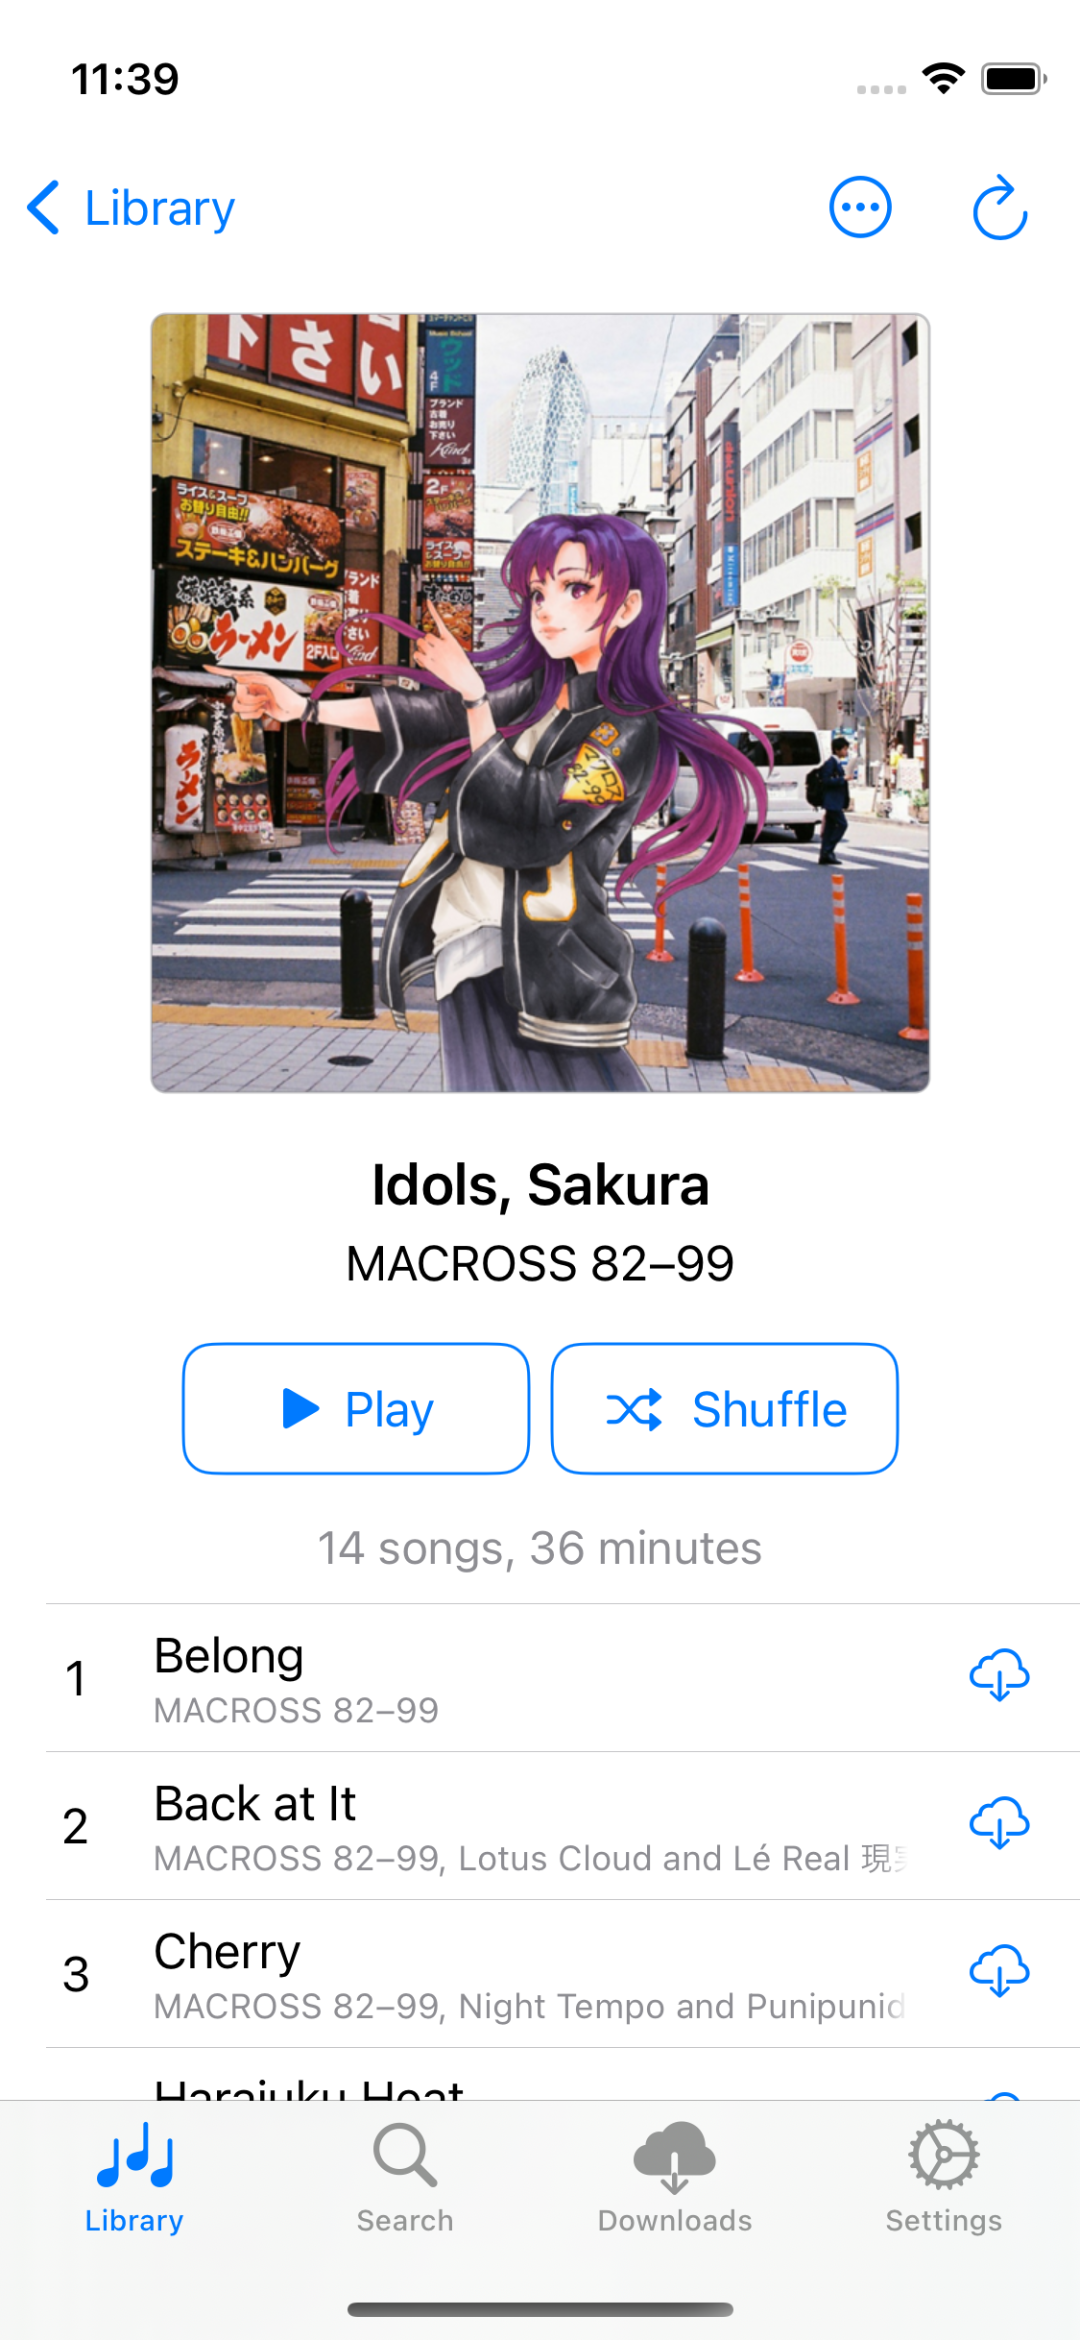
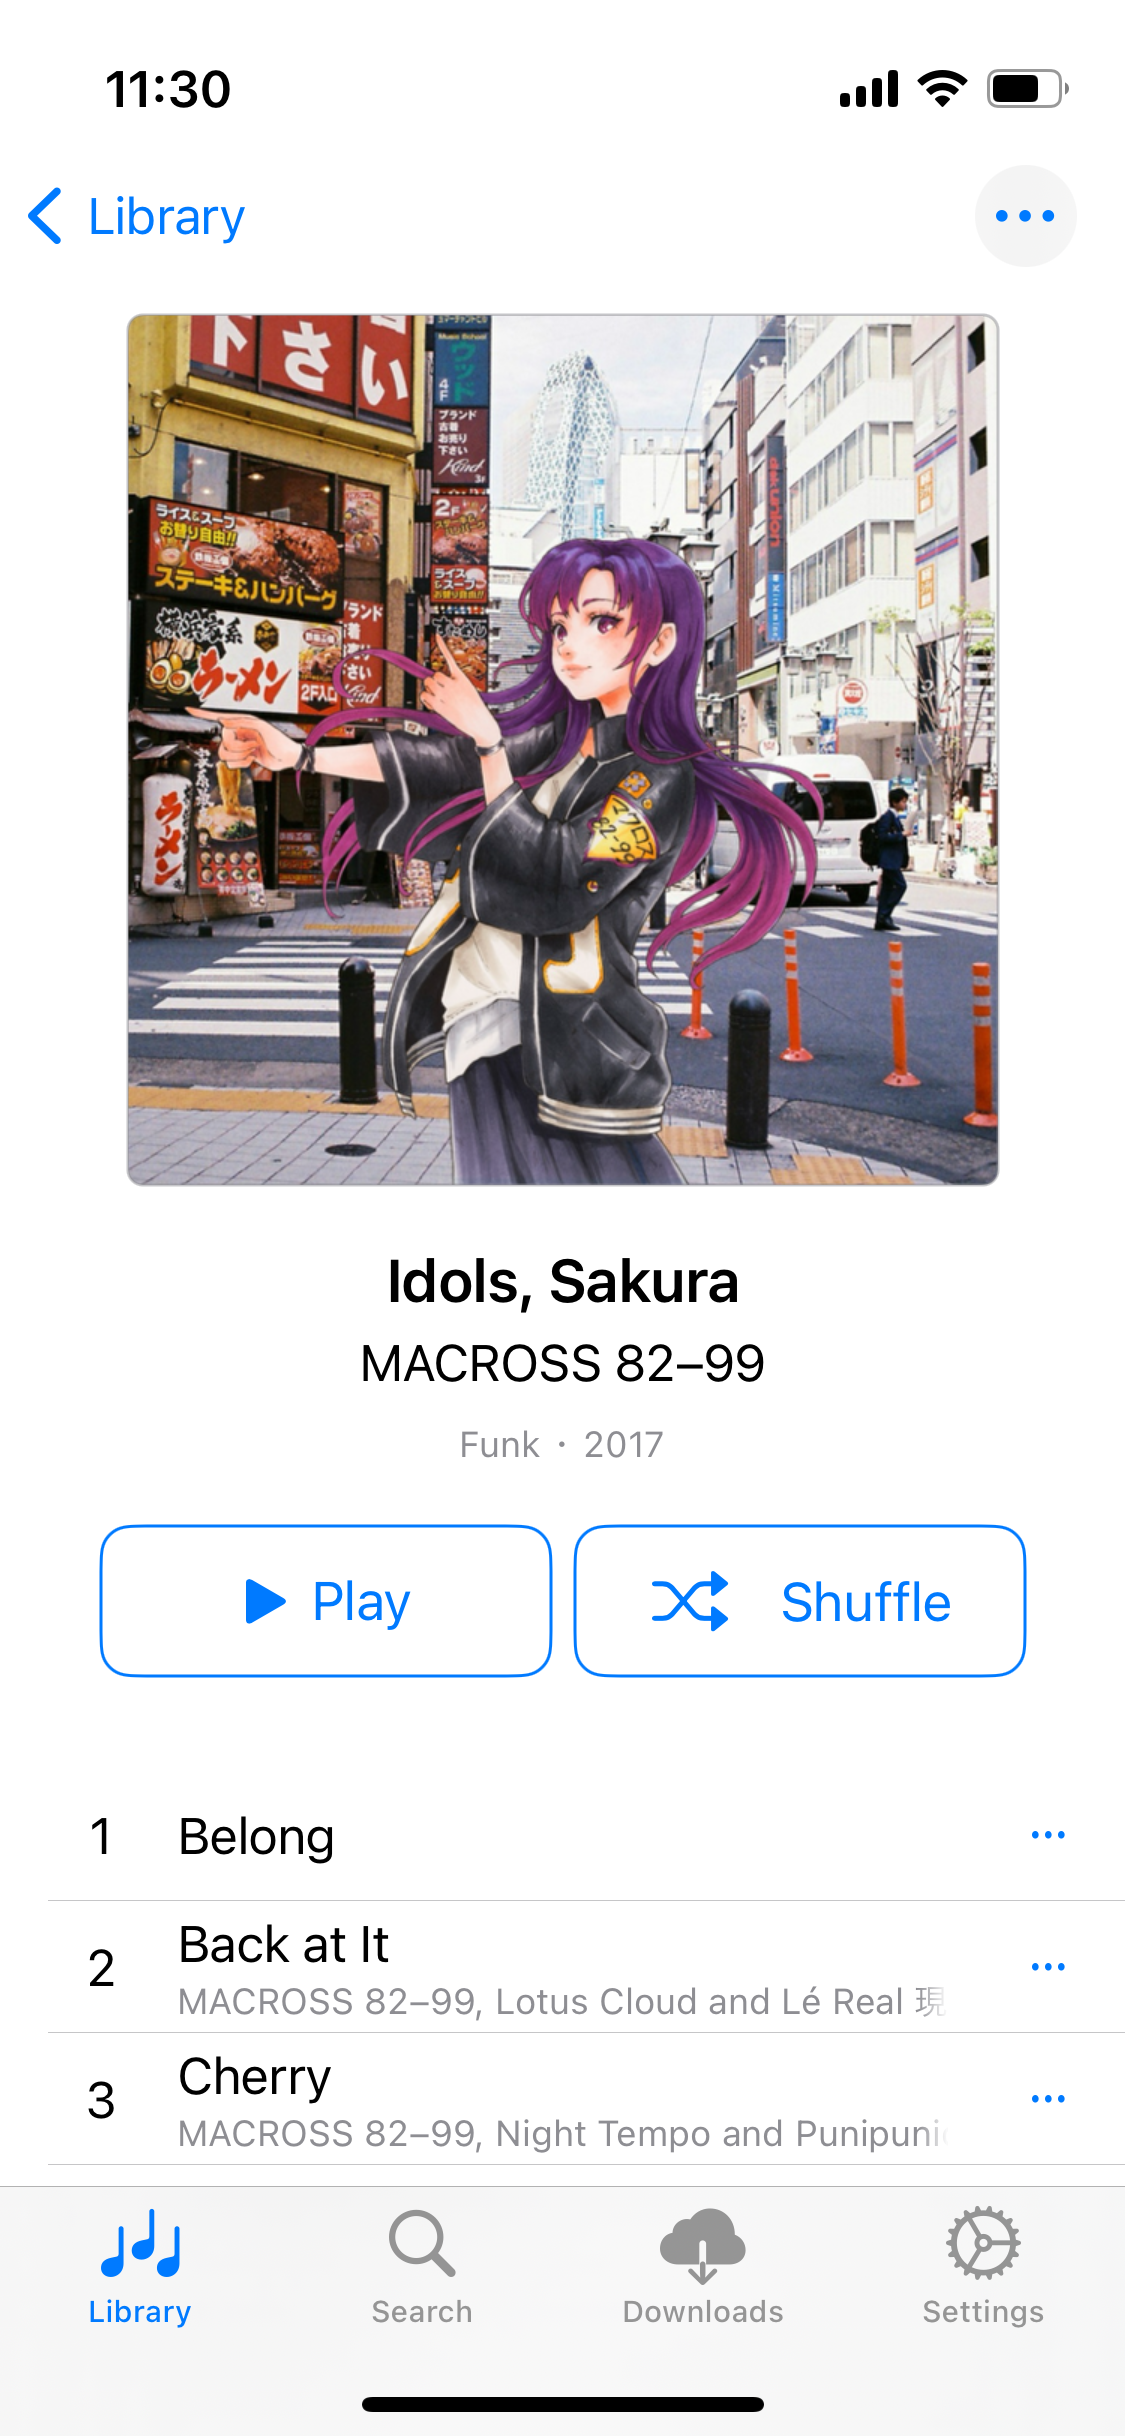
Update screenshots

diff --git a/README.md b/README.md
@@ -29,17 +29,16 @@ For a list of planned features, check the repository issues with `enhancement` o
 
 ## Screenshots
 
-Some example screenshots of the app. Might be very well outdated by the time you are looking at them. 🙂
+Some example screenshots of the app. Might be slightly ot of date. 🙂
 
-<div align=center>
+<table>
+<tr>
 <img src='resources/screenshots/library.png' alt='Library home screen' width=300 height=650 vspace=25 hspace=25 />
 <img src='resources/screenshots/album.png' alt='Album detail' width=300 height=650 vspace=25 hspace=25 />
-</div>
-
-<div align=center>
 <img src='resources/screenshots/player.png' alt='Player popup screen' width=300 height=650 vspace=25 hspace=25 />
 <img src='resources/screenshots/player_dark.png' alt='Player popup screen (dark theme)' width=300 height=650 vspace=25  hspace=25 />
-</div>
+</tr>
+</table>
 
 ## Development
 
